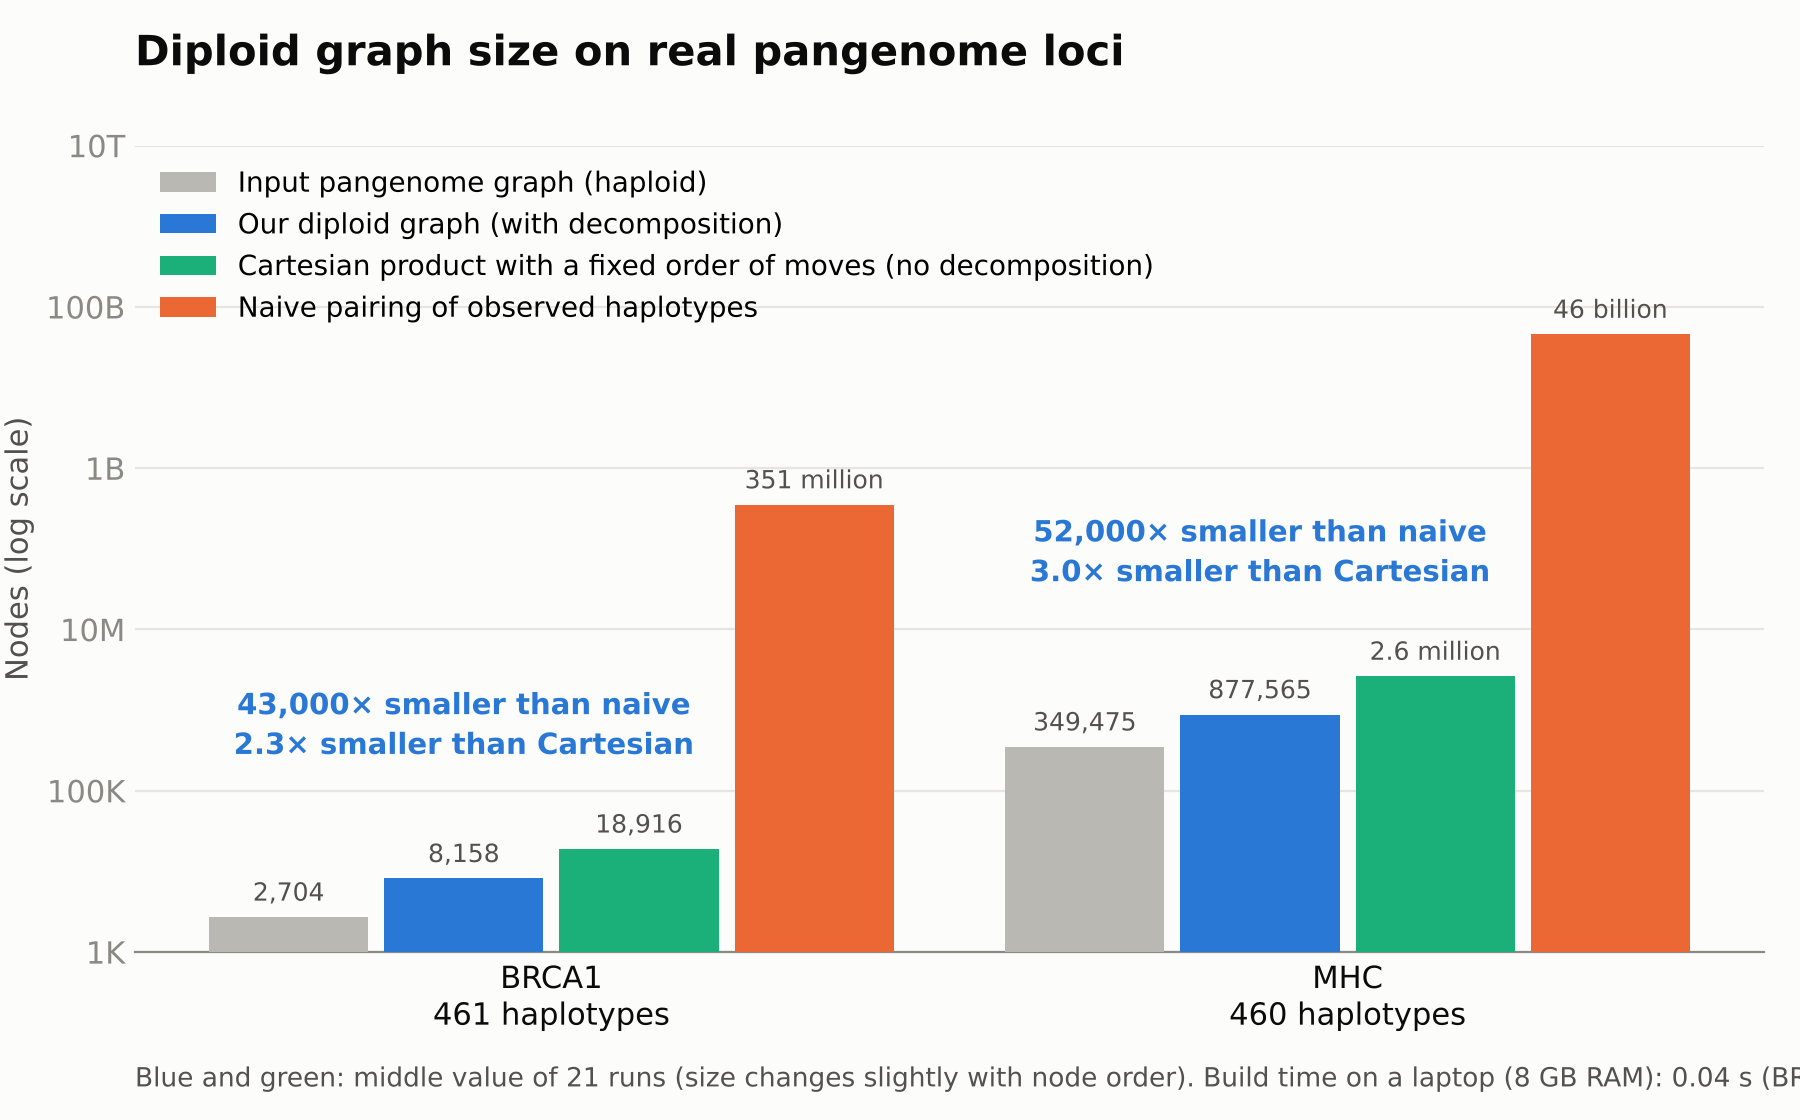
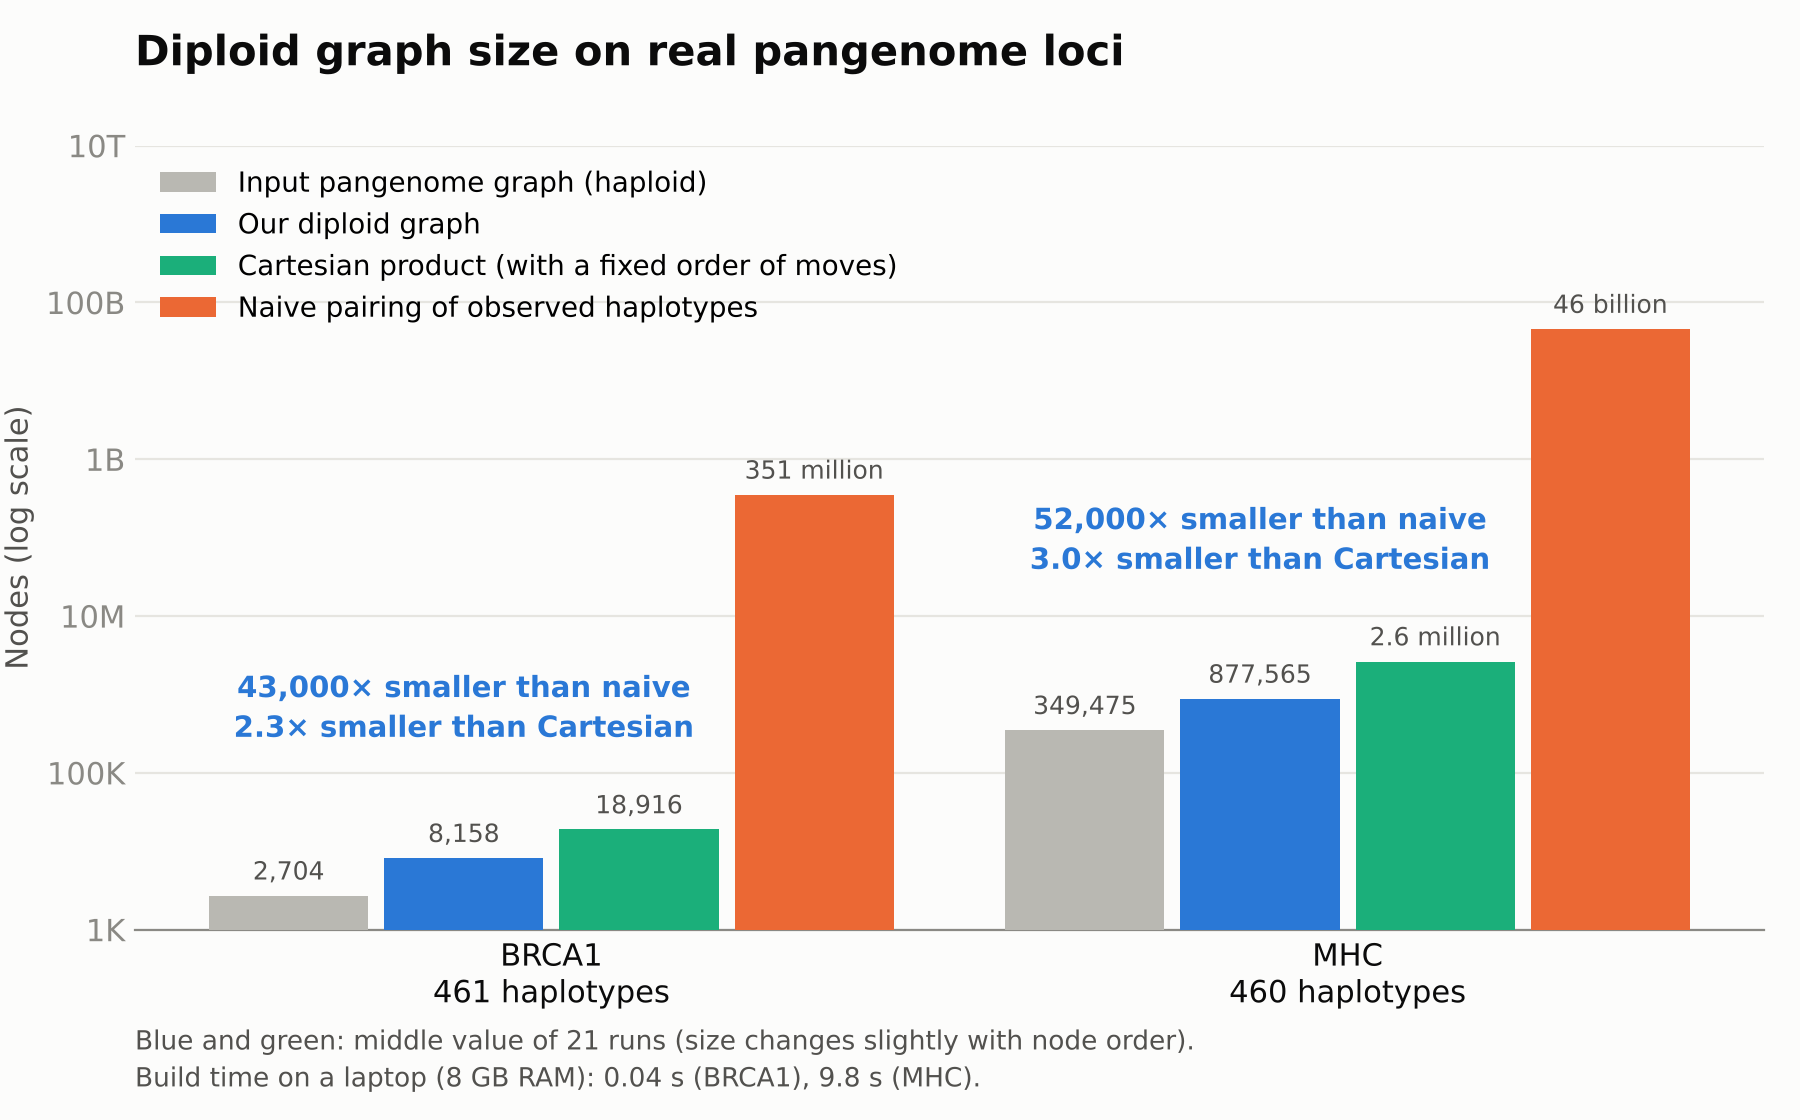
Figure: simpler legend; footer on two lines

diff --git a/experiments/plot_real.py b/experiments/plot_real.py
@@ -52,8 +52,8 @@ def main() -> None:
 
     width, gap = 0.2, 0.02
     series = [("Input pangenome graph (haploid)", "input_nodes", INPUT),
-              ("Our diploid graph (with decomposition)", "diploid_nodes", OURS),
-              ("Cartesian product with a fixed order of moves (no decomposition)", "no_decomposition_nodes", PRODUCT),
+              ("Our diploid graph", "diploid_nodes", OURS),
+              ("Cartesian product (with a fixed order of moves)", "no_decomposition_nodes", PRODUCT),
               ("Naive pairing of observed haplotypes", "naive_observed_nodes", NAIVE)]
     offset = (len(series) - 1) / 2
     for k, (label, key, color) in enumerate(series):
@@ -94,10 +94,10 @@ def main() -> None:
     ax.legend(loc="upper left", frameon=False, fontsize=10, bbox_to_anchor=(0.0, 1.0))
     times = ", ".join(f"{data[l]['build_s']:.2g} s ({l})" for l in loci)
     fig.text(0.075, 0.03,
-             f"Blue and green: middle value of {data[loci[0]].get('orders', 'several')} runs (size changes slightly with node order). "
+             f"Blue and green: middle value of {data[loci[0]].get('orders', 'several')} runs (size changes slightly with node order).\n"
              f"Build time on a laptop (8 GB RAM): {times}.",
-             ha="left", fontsize=9.5, color=INK2)
-    fig.subplots_adjust(left=0.075, right=0.98, top=0.87, bottom=0.15)
+             ha="left", fontsize=9.5, color=INK2, linespacing=1.4)
+    fig.subplots_adjust(left=0.075, right=0.98, top=0.87, bottom=0.17)
     fig.savefig(args.out, dpi=200, facecolor=SURFACE)
     print(f"wrote {args.out}")
 
